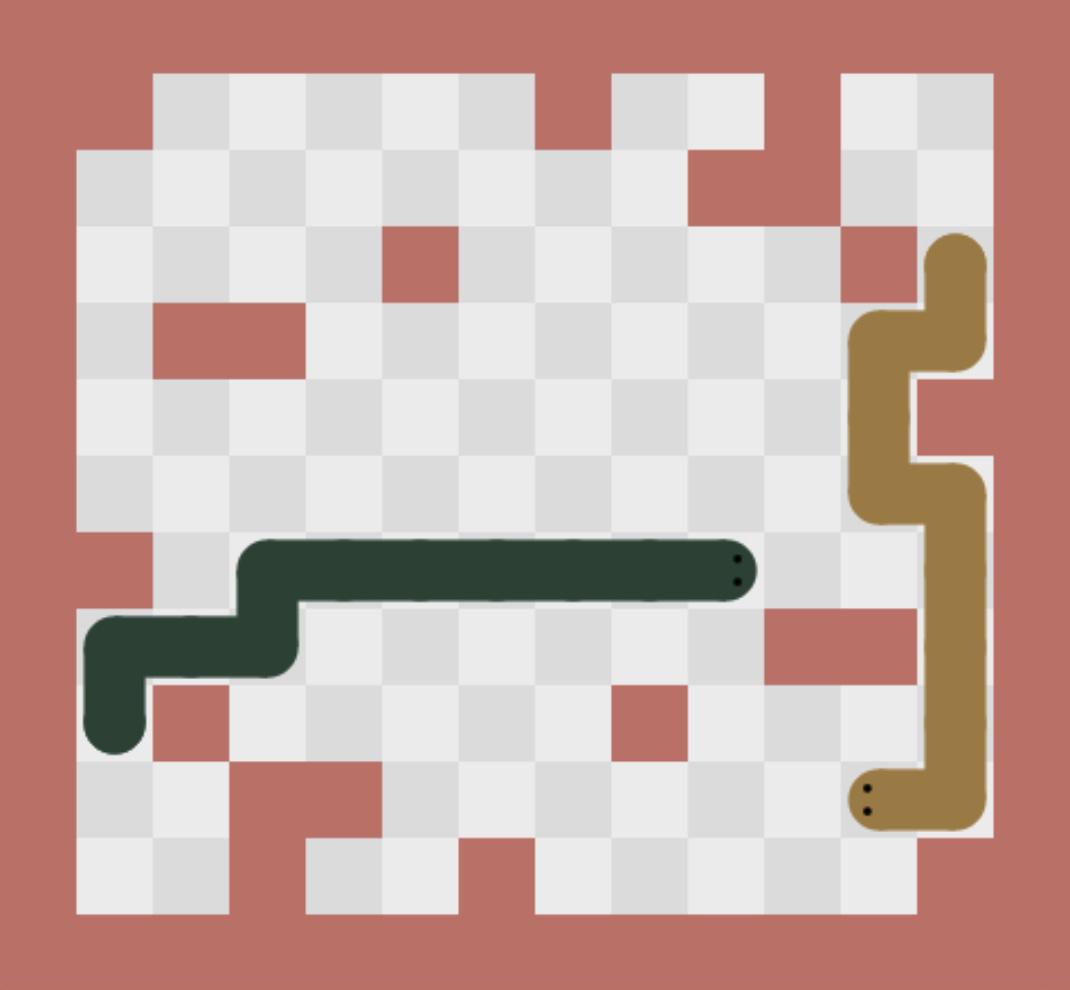
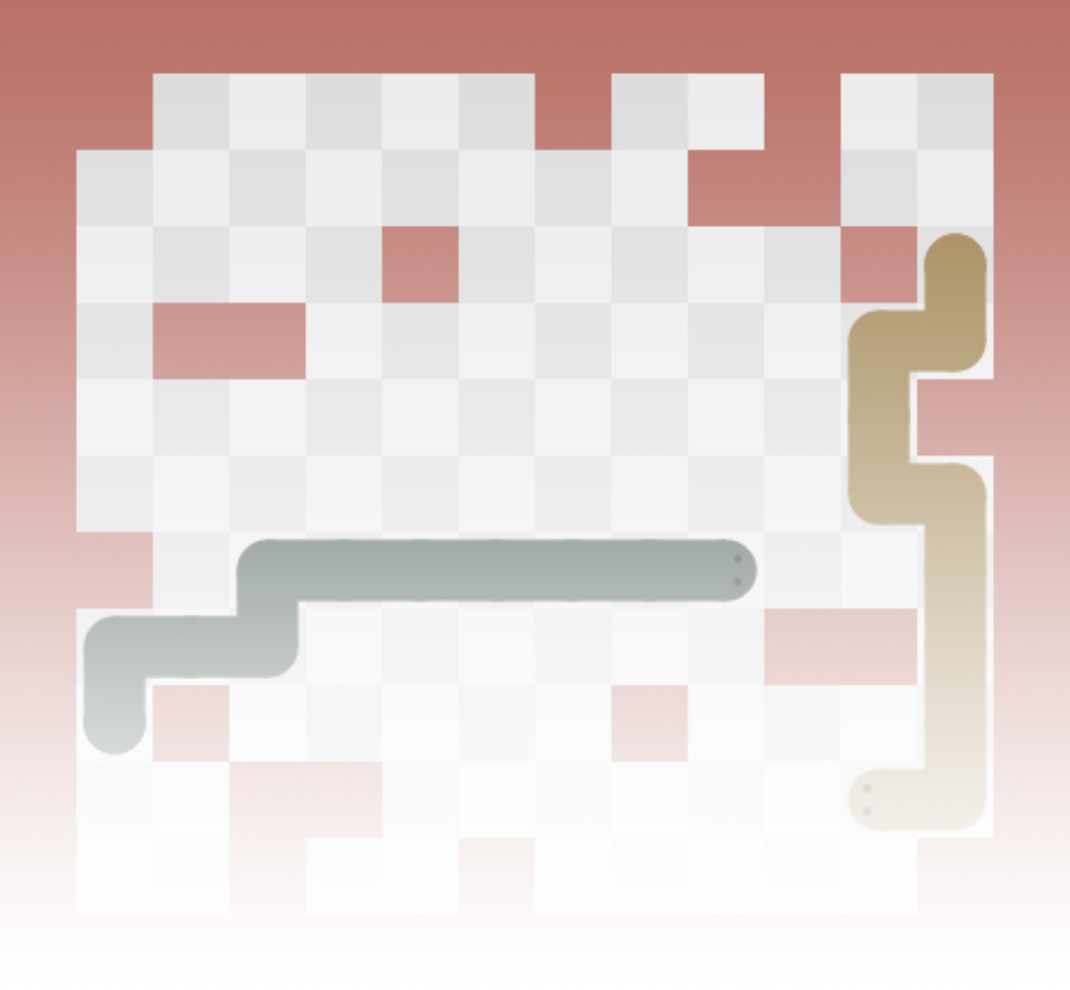
fix: style

diff --git a/web/src/pages/index.vue b/web/src/pages/index.vue
@@ -16,8 +16,8 @@ const { t } = useI18n()
     </div>
 
     <div py-3 />
-    <div max-w-100 mx-auto mb--25 z-0>
-      <img src="/public/pk_light.jpg" alt="">
+    <div max-w-100 mx-auto mb--15 z-0>
+      <img class="img" :src="isDark ? '/pk_dark.jpg' : '/pk_light.jpg'" alt="">
     </div>
 
     <button z-10>
@@ -30,13 +30,6 @@ const { t } = useI18n()
     </button>
   </div>
 </template>
-
-<style scoped>
-img {
-  mask-image: linear-gradient(0, transparent 13%, #fff);
-  -webkit-mask-image: linear-gradient(0, transparent 13%, #fff);
-}
-</style>
 
 <route lang="yaml">
 meta:

diff --git a/web/unocss.config.ts b/web/unocss.config.ts
@@ -11,7 +11,7 @@ import {
 
 export default defineConfig({
   shortcuts: [
-    ['btn', 'px-4 py-1 rounded inline-block bg-teal-700 text-white cursor-pointer hover:bg-teal-800 disabled:cursor-default disabled:bg-gray-600 disabled:opacity-50'],
+    ['btn', 'px-4 py-1 rounded inline-block bg-blue-600 text-white cursor-pointer hover:bg-blue-800 disabled:cursor-default disabled:bg-gray-600 disabled:opacity-50'],
     ['icon-btn', 'inline-block cursor-pointer select-none opacity-75 transition duration-200 ease-in-out hover:opacity-100 hover:text-teal-600'],
   ],
   presets: [

diff --git a/web/src/pages/record.vue b/web/src/pages/record.vue
@@ -93,7 +93,7 @@ pullPage(currentPage)
 </script>
 
 <template>
-  <div max-w-3xl mx-auto>
+  <div max-w-4xl mx-auto>
     <div class="overflow-x-auto relative shadow-md sm:rounded-lg mb-10 mt-8">
       <table class="w-full text-sm text-left text-gray-500 dark:text-gray-400">
         <thead class="text-xs text-gray-700 uppercase bg-gray-50 dark:bg-gray-700 dark:text-gray-400">
@@ -183,5 +183,5 @@ pullPage(currentPage)
 
 <route lang="yaml">
 meta:
-  layout: user
+  layout: record
 </route>

diff --git a/web/src/components/Header.vue b/web/src/components/Header.vue
@@ -20,7 +20,7 @@ const show = () => {
 
 <template>
   <nav class="text-md mb-5 flex justify-around color-bluegray">
-    <button class="flex items-center mr--10">
+    <button class="flex items-center mr--15">
       <div i-carbon-scatter-matrix />
       &nbsp;
       <RouterLink to="/" font-bold>

diff --git a/web/src/layouts/record.vue b/web/src/layouts/record.vue
@@ -1,0 +1,14 @@
+<template>
+  <main class="px-4 py-5 text-center text-gray-700 dark:text-gray-200">
+    <Header />
+    <div class="mx-auto">
+      <RouterView />
+    </div>
+    <div bottom-10 class="footer">
+      <Footer />
+    </div>
+  </main>
+</template>
+
+<style>
+</style>
